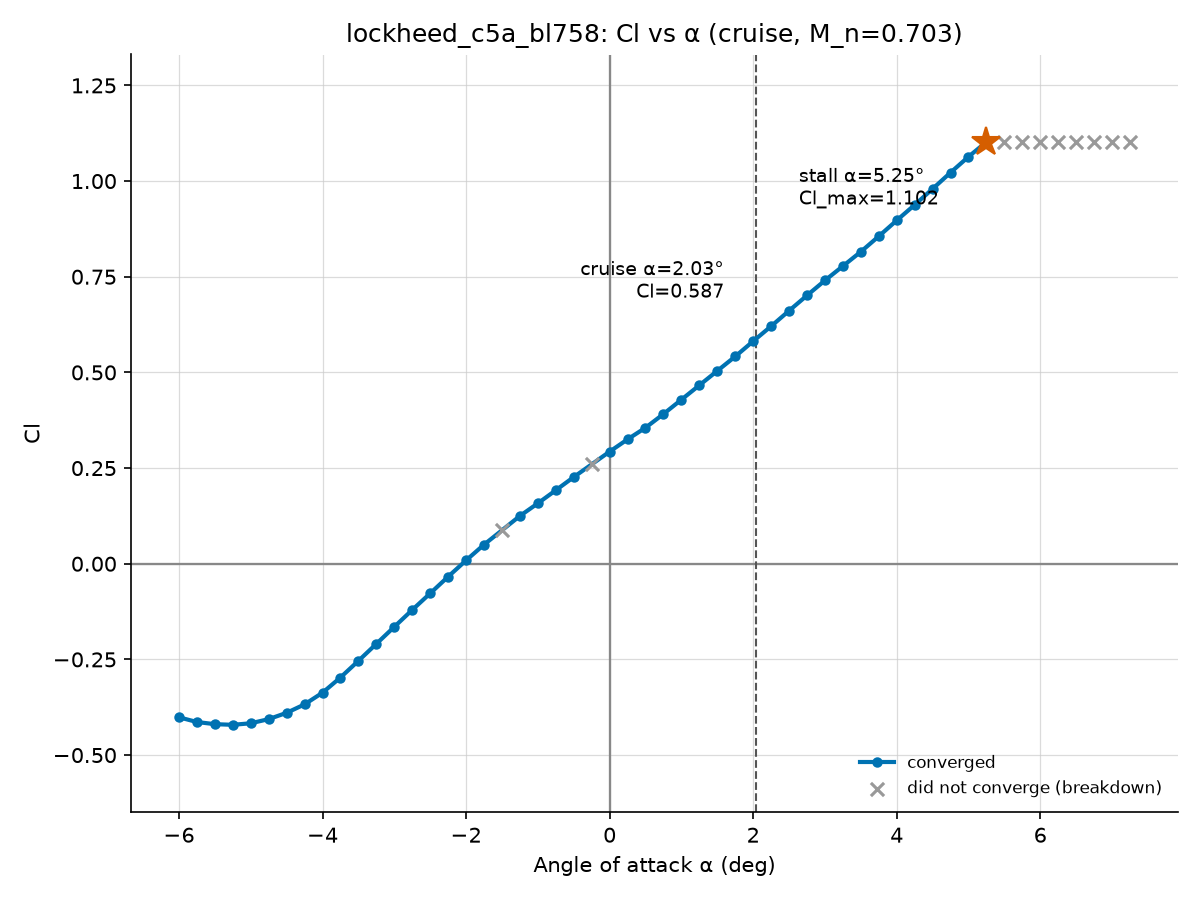
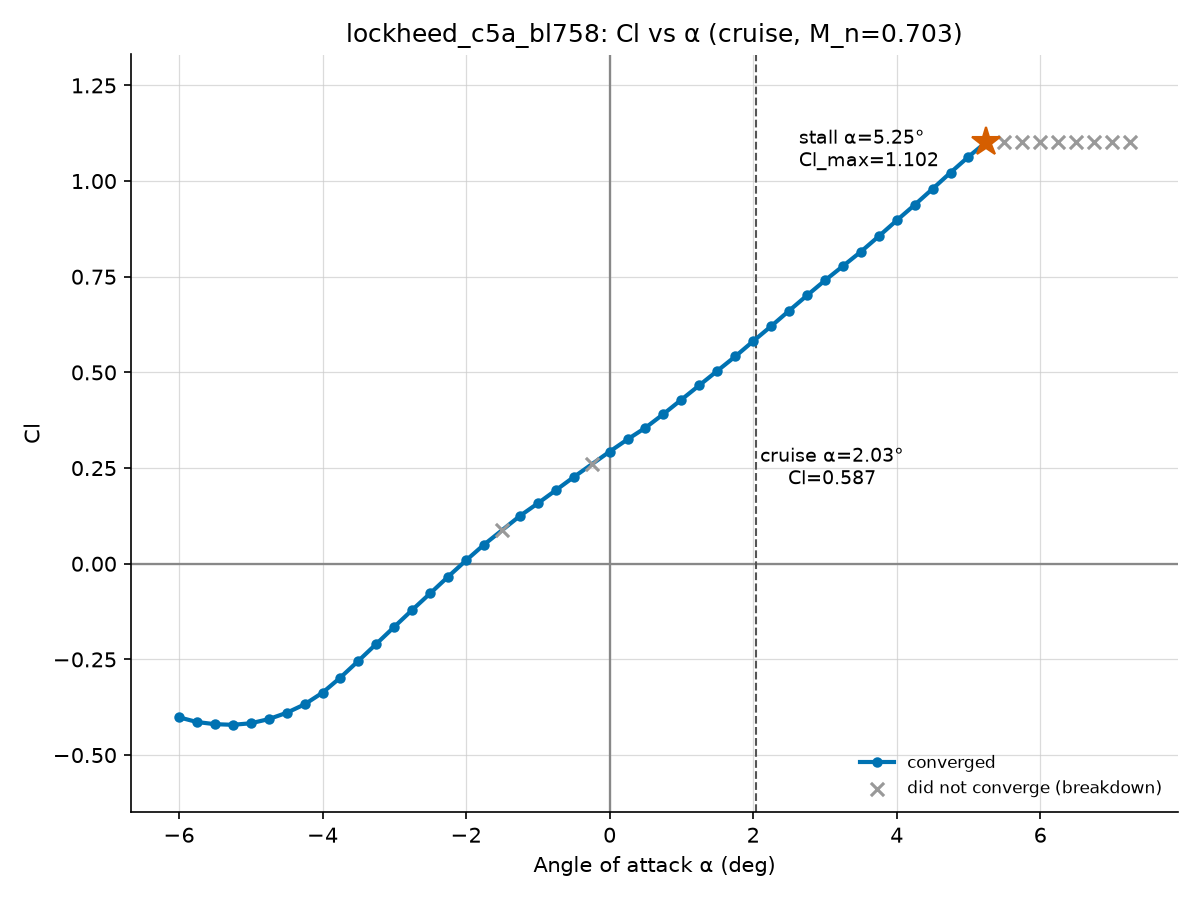
make_plots.py: per-plot pixel-level annotation and legend tuning pass
Granular one-by-one fixes across all four candidates: mcrit_sweep legend
repositioned into the empty corner, drag-polar/Cd-vs-alpha panels no
longer force a zero-line that pads the axis with dead space, and
cruise/stall/cm/Cl-Cd labels nudged clear of the curves and non-converged
marker clusters (per-airfoil overrides where a shared default wasn't
enough).

Changed region(s): [[0.6475, 0.1244, 0.7708, 0.2489], [0.4933, 0.28, 0.6167, 0.3422], [0.6475, 0.4978, 0.74, 0.56]]

diff --git a/wp2/scripts/make_plots.py b/wp2/scripts/make_plots.py
@@ -63,7 +63,9 @@ def airfoil_colors() -> dict[str, str]:
     return dict(zip(stems, _PALETTE))
 
 
-def _style_axes(ax: "plt.Axes", *, zero_lines: bool = True) -> None:
+def _style_axes(
+    ax: "plt.Axes", *, zero_lines: bool = True, horizontal_zero: bool = True, vertical_zero: bool = True,
+) -> None:
     """Recessive gridlines behind the data, no chart-junk spines, and an
     emphasized reference line at x=0/y=0 wherever that value falls within
     the plotted range -- a plain gridline at zero reads identically to
@@ -78,13 +80,20 @@ def _style_axes(ax: "plt.Axes", *, zero_lines: bool = True) -> None:
     quantity), so an "x=0" reference line is meaningless there -- verified
     directly, it rendered as a stray vertical line poking through the
     first bar group.
+
+    horizontal_zero/vertical_zero independently drop just the y=0 or x=0
+    line: a quantity that never crosses zero (e.g. Cd) shouldn't pull that
+    value into the autoscaled view just to draw a reference line for it --
+    axhline/axvline count toward autoscale, so drawing one at 0 when the
+    data never gets near 0 pads the axis with dead space.
     """
     ax.grid(True, color="#cccccc", linewidth=0.6, alpha=0.7, zorder=0)
     ax.set_axisbelow(True)
     ax.spines["top"].set_visible(False)
     ax.spines["right"].set_visible(False)
-    if zero_lines:
+    if zero_lines and horizontal_zero:
         ax.axhline(0, color="#888888", linewidth=1.1, zorder=1)
+    if zero_lines and vertical_zero:
         ax.axvline(0, color="#888888", linewidth=1.1, zorder=1)
 
 
@@ -128,10 +137,26 @@ def _plot_nonconverged_markers(
     )
 
 
+# Per-stem label placement, tuned by eye against each airfoil's own curve
+# shape (stall Cl, non-converged marker clusters, etc.). Keyed as
+# stem -> (cruise-label data xy, stall-label absolute data xy). A stem not
+# listed here falls back to _CRUISE_ALPHA_LABEL_DEFAULT_XYTEXT for the
+# cruise label and (stall_alpha, cl_max + 0.1) for the stall label.
+_CRUISE_ALPHA_LABEL_OVERRIDES: dict[str, tuple[tuple[float, float], tuple[float, float]]] = {
+    "NACA_25112": ((3.1, 0.25), (6.70, 1.626)),
+    "NACA_64212": ((3, 0.25), (4.8, 1.175)),
+    "NASA_SC(2)-0712": ((-2, 1), (2.25, 1.35)),
+}
+_CRUISE_ALPHA_LABEL_DEFAULT_XYTEXT: tuple[float, float] = (3, 0.25)
+
+
 def plot_cl_vs_alpha_cruise(stem: str, color: str, out_dir: Path) -> None:
     cruise = _read_polar(stem, "cruise")
     cl_max, stall_alpha = polar_analysis.find_cl_max(cruise)
     op = _cruise_operating_point(stem)
+    cruise_xytext, stall_xy = _CRUISE_ALPHA_LABEL_OVERRIDES.get(
+        stem, (_CRUISE_ALPHA_LABEL_DEFAULT_XYTEXT, (stall_alpha, cl_max + 0.1))
+    )
 
     fig, ax = plt.subplots(figsize=(8, 6))
     _style_axes(ax)
@@ -143,16 +168,12 @@ def plot_cl_vs_alpha_cruise(stem: str, color: str, out_dir: Path) -> None:
     _plot_nonconverged_markers(ax, cruise, converged)
 
     ax.axvline(op["alpha"], color="#555555", linestyle="--", linewidth=1, zorder=2)
-    # Up and to the left, right-aligned: the curve is rising through this
-    # point (so "up" alone isn't enough -- a small offset to the right
-    # runs into the curve catching back up, verified directly), and the
-    # dashed vertical cruise-alpha line passes through this exact x, so
-    # centering on it would put the line through the text. Left is where
-    # the rising curve is furthest below the label and clear of the line.
+    # Fixed data-coordinate placement, centered: an open region of the axes
+    # clear of both the rising curve and the dashed cruise-alpha line.
     ax.annotate(
         f"cruise α={op['alpha']:.2f}°\nCl={config.CRUISE.cl_normal:.3f}",
-        xy=(op["alpha"], config.CRUISE.cl_normal), xytext=(-15, 20),
-        textcoords="offset points", fontsize=9, ha="right",
+        xy=(op["alpha"], config.CRUISE.cl_normal), xytext=cruise_xytext,
+        textcoords="data", fontsize=9, ha="center", va="center",
     )
     ax.plot([stall_alpha], [cl_max], marker="*", markersize=14, color="#D55E00", zorder=5)
     # always label below the marker: it sits at the curve's Cl peak, which
@@ -160,7 +181,7 @@ def plot_cl_vs_alpha_cruise(stem: str, color: str, out_dir: Path) -> None:
     # collides with the title
     ax.annotate(
         f"stall α={stall_alpha:.2f}°\nCl_max={cl_max:.3f}",
-        xy=(stall_alpha, cl_max), xytext=(-90, -30), textcoords="offset points", fontsize=9,
+        xy=stall_xy, xytext=(-90, -30), textcoords="offset points", fontsize=9,
     )
 
     ax.set_xlabel("Angle of attack α (deg)")
@@ -180,8 +201,12 @@ def plot_cd_and_drag_polar(stem: str, color: str, out_dir: Path) -> None:
 
     # two side-by-side panels, never a shared dual y-axis
     fig, (ax_cd, ax_polar) = plt.subplots(1, 2, figsize=(12, 5.5))
-    for ax in (ax_cd, ax_polar):
-        _style_axes(ax)
+    # Cd is always positive on both panels -- forcing its zero line into
+    # view just pads the axis with dead space, so each panel only draws
+    # the zero line for the axis that actually crosses zero (alpha on the
+    # left, Cl on the right).
+    _style_axes(ax_cd, horizontal_zero=False)
+    _style_axes(ax_polar, vertical_zero=False)
 
     ax_cd.plot(converged["alpha"], converged["cd"], color=color, linewidth=2, marker="o", markersize=4)
     ax_cd.plot([op["alpha"]], [op["cd"]], marker="*", markersize=14, color="#D55E00", zorder=5)
@@ -224,16 +249,15 @@ def plot_cl_cd_vs_alpha(stem: str, color: str, out_dir: Path) -> None:
     _style_axes(ax)
     ax.plot(converged["alpha"], cl_over_cd, color=color, linewidth=2, marker="o", markersize=4)
     ax.plot([op["alpha"]], [op_cl_cd], marker="*", markersize=14, color="#D55E00", zorder=5)
-    # Centered directly above the point rather than a small diagonal
-    # offset: Cl/Cd vs alpha is rising through the cruise point for every
-    # current candidate, so a label that extends rightward at nearly the
-    # same height as the curve (a small (8, 8) offset did this) runs
-    # straight into the curve's own continuation -- verified directly on
-    # NASA_SC(2)-0712. A center-anchored label with real vertical
-    # clearance stays above the curve on both sides of the point.
+    # Up and to the left, right-aligned: Cl/Cd vs alpha is rising through
+    # the cruise point for every current candidate, so a center-anchored
+    # label's right half can still reach the curve as it climbs back up
+    # further right (verified directly on lockheed_c5a_bl758). Right-
+    # aligning the text at a leftward offset keeps the whole label to the
+    # left of the point, where the curve is lower.
     ax.annotate(
-        f"cruise: Cl/Cd={op_cl_cd:.1f}", xy=(op["alpha"], op_cl_cd),
-        xytext=(0, 20), textcoords="offset points", fontsize=9, ha="center",
+        f"cruise: Cl/Cd={op_cl_cd:.1f}", xy=(op["alpha"] - 0.25, op_cl_cd - 15),
+        xytext=(2, 20), textcoords="offset points", fontsize=9, ha="right",
     )
     ax.set_xlabel("Angle of attack α (deg)")
     ax.set_ylabel("Cl / Cd")
@@ -243,10 +267,19 @@ def plot_cl_cd_vs_alpha(stem: str, color: str, out_dir: Path) -> None:
     plt.close(fig)
 
 
+# Per-stem horizontal nudge for the cruise-label anchor (alpha units),
+# tuned by eye against each airfoil's own Cm curve shape.
+_CM_LABEL_ALPHA_DELTA: dict[str, float] = {
+    "NACA_25112": -0.7,
+}
+_CM_LABEL_ALPHA_DELTA_DEFAULT = -0.2
+
+
 def plot_cm_vs_alpha(stem: str, color: str, out_dir: Path) -> None:
     cruise = _read_polar(stem, "cruise")
     op = _cruise_operating_point(stem)
     converged = cruise[cruise["converged"]].sort_values("alpha")
+    alpha_delta = _CM_LABEL_ALPHA_DELTA.get(stem, _CM_LABEL_ALPHA_DELTA_DEFAULT)
 
     fig, ax = plt.subplots(figsize=(8, 6))
     _style_axes(ax)
@@ -256,7 +289,7 @@ def plot_cm_vs_alpha(stem: str, color: str, out_dir: Path) -> None:
     # through the cruise point for every current candidate, same rationale
     # as the Cl/Cd and Cd plots above.
     ax.annotate(
-        f"cruise: Cm={op['cm']:.4f}", xy=(op["alpha"], op["cm"]),
+        f"cruise: Cm={op['cm']:.4f}", xy=(op["alpha"] + alpha_delta, op["cm"]),
         xytext=(0, 16), textcoords="offset points", fontsize=9, ha="center",
     )
     ax.set_xlabel("Angle of attack α (deg)")
@@ -315,7 +348,12 @@ def plot_mcrit_sweep(stem: str, color: str, out_dir: Path) -> None:
     # low-Mach end (Cp_crit around -7, Cp_min around -1.5), so that corner
     # is consistently empty -- lower left sits right where the descending
     # Cp_crit dashed curve passes through, verified directly.
-    ax.legend(loc="upper left", frameon=False, fontsize=8)
+    legend_x = ax.get_xlim()[0] + 0.05
+    legend_y = ax.get_ylim()[1] - 0.5
+    ax.legend(
+        loc="upper left", bbox_to_anchor=(legend_x, legend_y), bbox_transform=ax.transData,
+        frameon=False, fontsize=8,
+    )
     fig.tight_layout()
     fig.savefig(out_dir / "mcrit_sweep.png", dpi=150)
     plt.close(fig)
